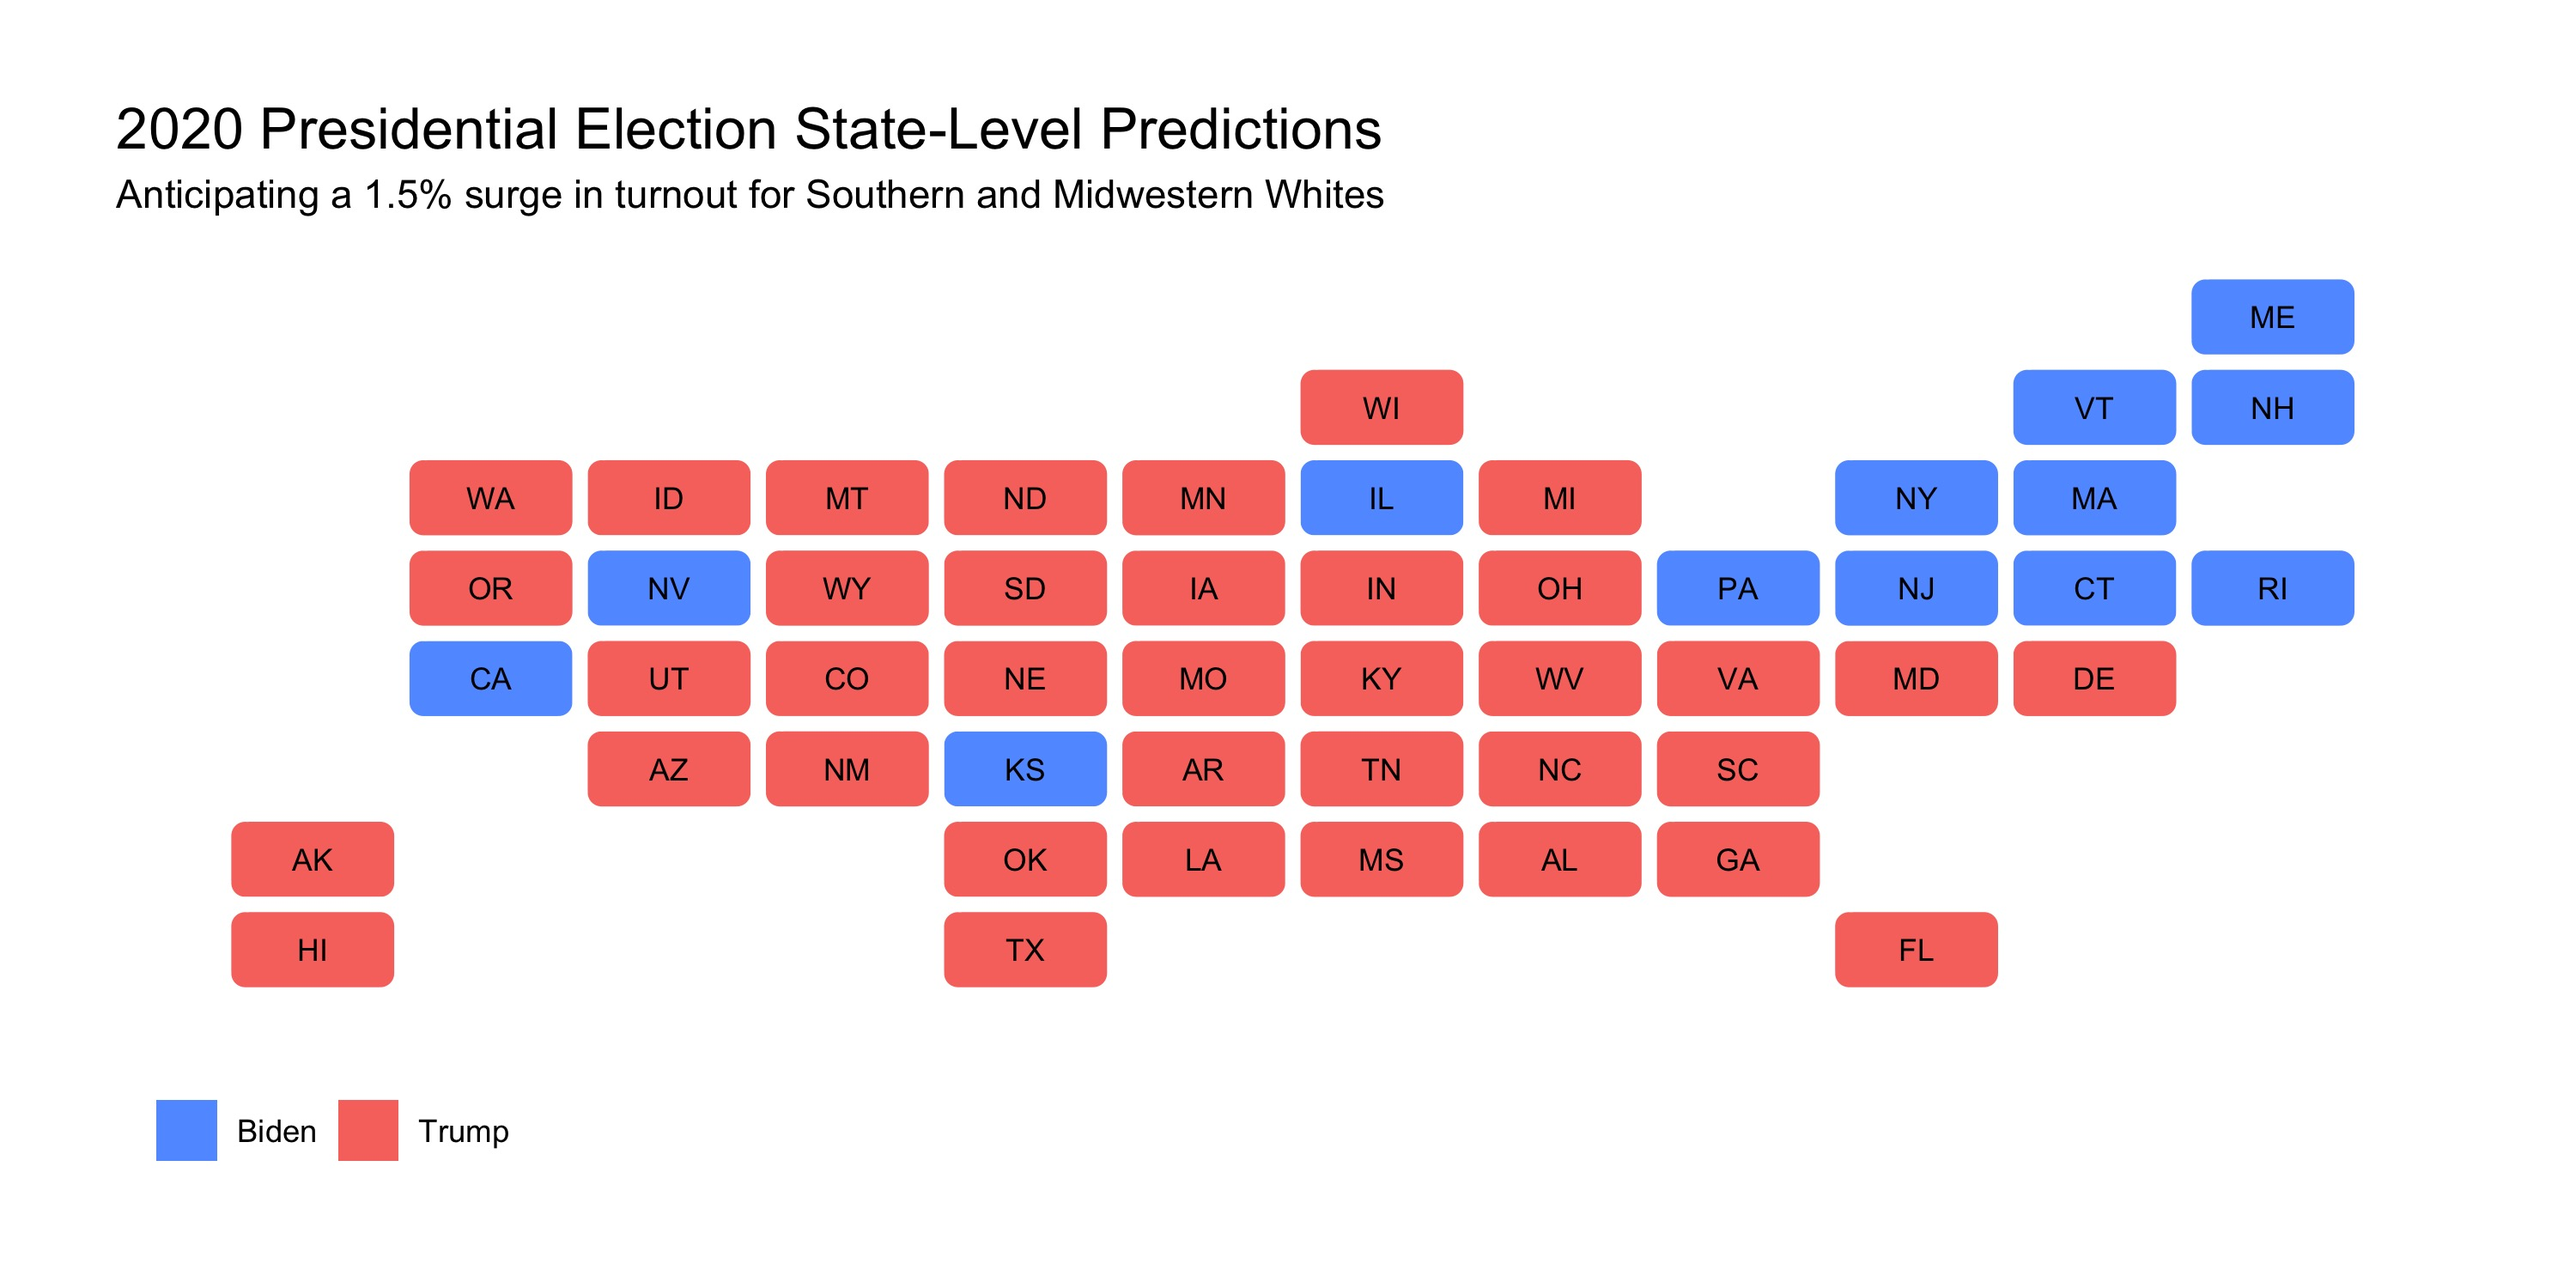
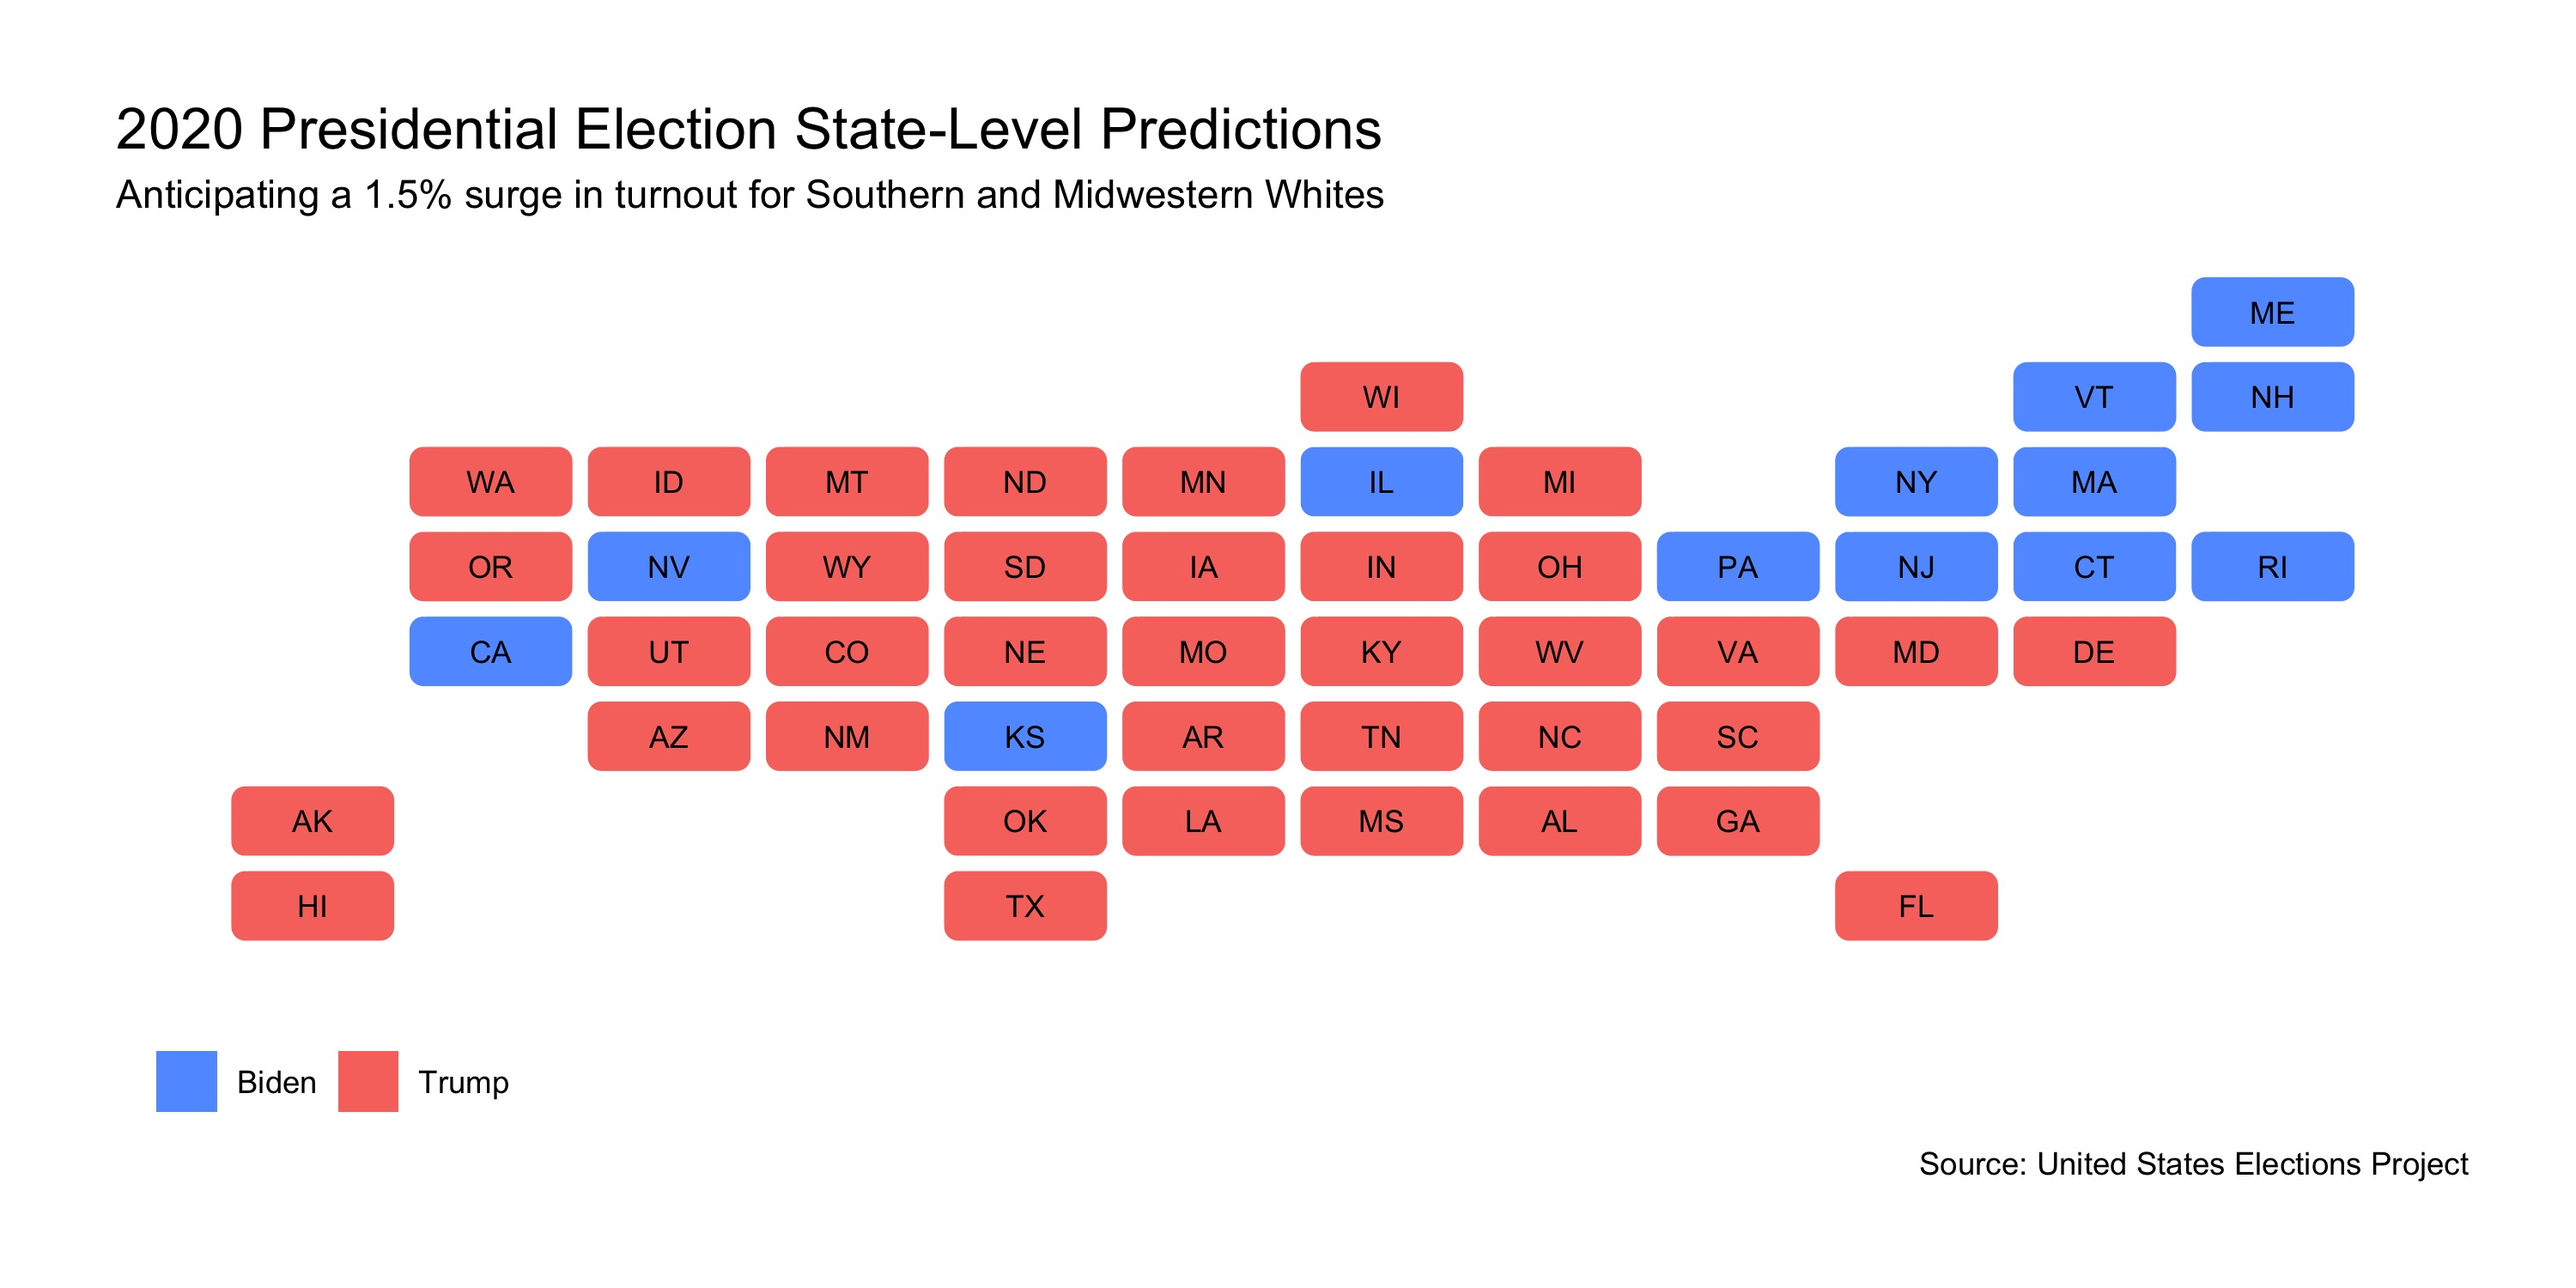
added source to plots

diff --git a/posts/blog6.md b/posts/blog6.md
@@ -11,6 +11,7 @@ On this blog, we've explored how polling data, historical voting data, economic 
 ### A Demographic-Based Model
 
 ![](../figures/demotable.png)
+Source: United States Elections Project
 
 It is very important to note that this model is not generated based on each demographic's history of voting either Democratic and Republican, but rather by how the demographic's changes in turnout has affected which candidate wins each respective state. This is why some of the values in our table are suspect: based on general knowledge of the historical party support of Black Americans, it seems unlikely that an increase in Black turnout would lead to a higher Republican voteshare in their state, even if just by a small amount of 0.18 percentage point. 
 
